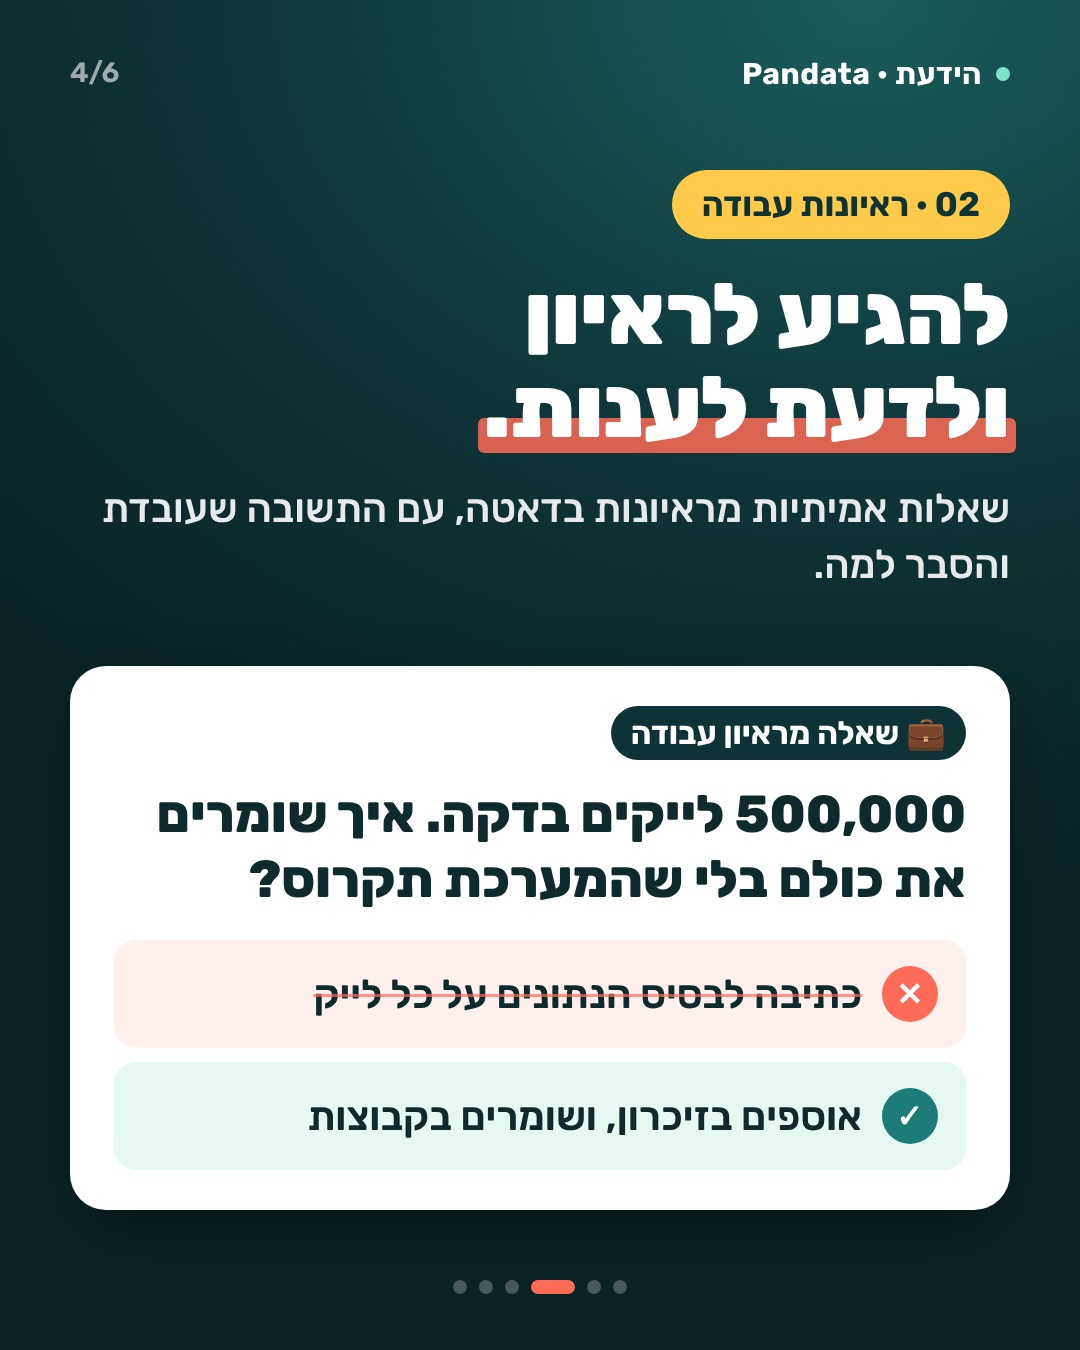
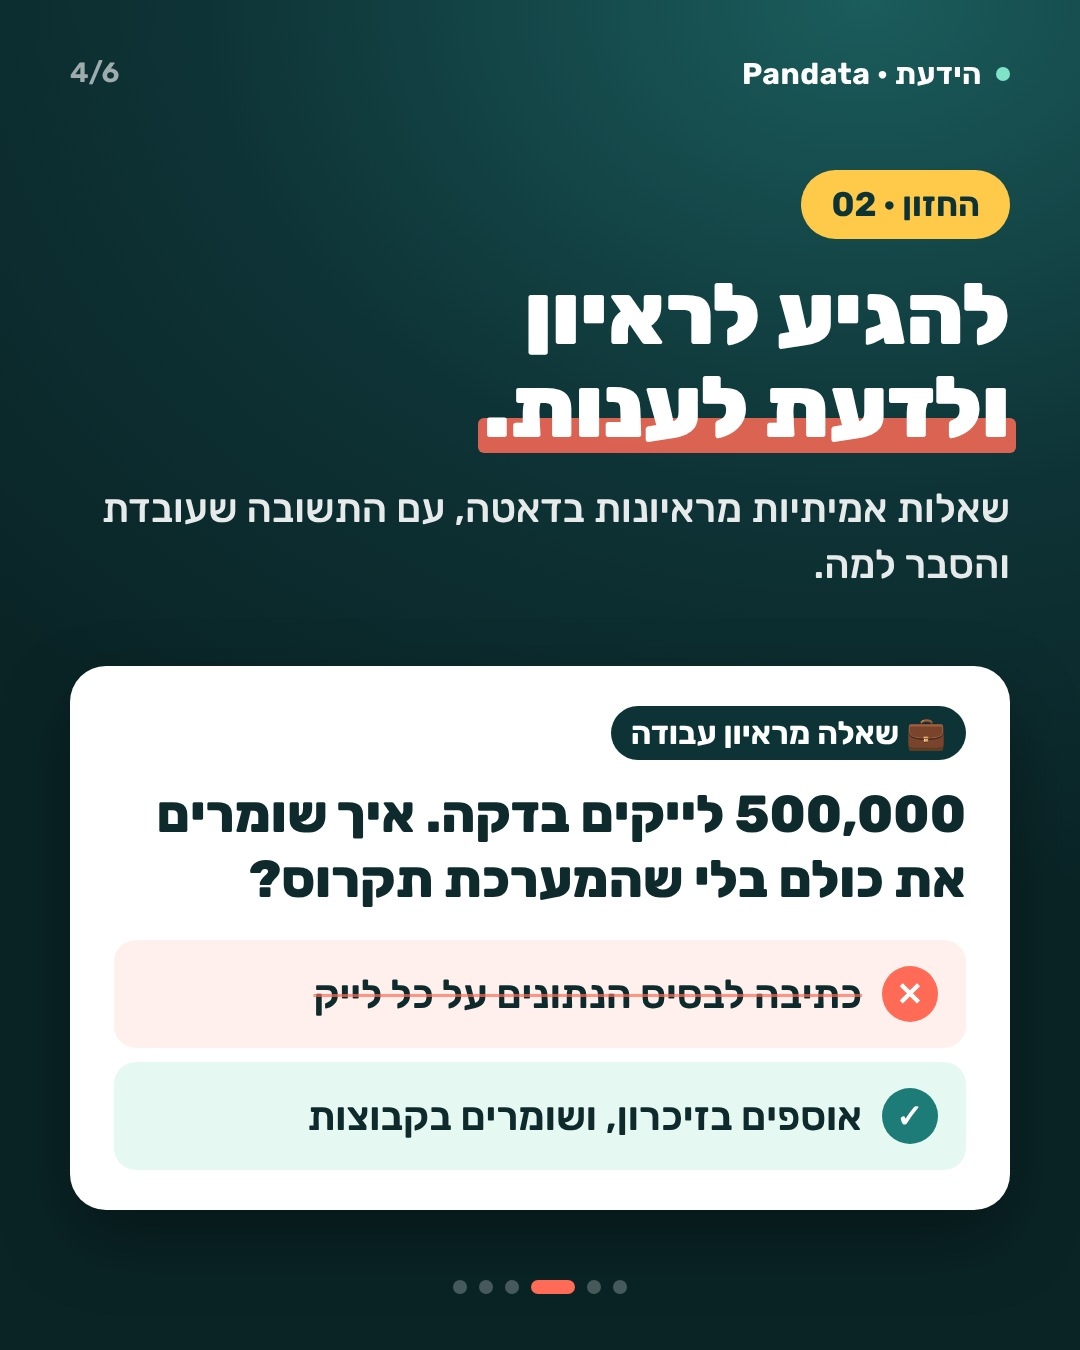
Vision carousel: new pillar wording, knowledge-hub tiles
Claude-Session: https://claude.ai/code/session_01HGsxkkLTRfJG6BnZMczhct

Changed region(s): [[0.6111, 0.1244, 0.9167, 0.1867]]

diff --git a/posts/vision/slides.html b/posts/vision/slides.html
@@ -67,6 +67,7 @@ h2{font-size:86px;line-height:1.08;font-weight:900}
 /* 5 */
 #s5 .pill{background:var(--teal);color:#fff;margin-bottom:30px}
 #s5 .sub{font-size:40px;line-height:1.4;font-weight:500;margin-top:26px;max-width:900px}
+#s5 .tiles{position:absolute;bottom:120px;left:50%;transform:translateX(-50%);display:grid;grid-template-columns:repeat(3,196px);gap:20px;direction:ltr}#s5 .tiles img{width:196px;height:196px;border-radius:44px;box-shadow:0 12px 28px rgba(15,42,44,.16);display:block}
 #s5 .hl{position:absolute;right:50px;left:50px;bottom:130px;display:grid;grid-template-columns:repeat(4,1fr);gap:34px 10px;justify-items:center}
 #s5 .b{display:flex;flex-direction:column;align-items:center;gap:14px}
 #s5 .ring{width:176px;height:176px;border-radius:50%;padding:7px;background:conic-gradient(from 200deg,var(--teal),var(--mint),var(--sun),var(--coral),var(--teal))}
@@ -107,10 +108,10 @@ h2{font-size:86px;line-height:1.08;font-weight:900}
 <div class="dots"><b></b><b class="on"></b><b></b><b></b><b></b><b></b></div></div>
 
 <div class="s cream" id="s3" style="background:#f3f7f2"><div class="brand"><i></i>הידעת · Pandata</div><div class="num">3/6</div>
-<div class="t"><div class="pill">01 · להנגיש</div>
-<h2>דאטה קל<br><mark>ומוחשי יותר</mark></h2>
+<div class="t"><div class="pill">החזון · 01</div>
+<h2 style="font-size:80px">להנגיש דאטה<br><mark>בצורה קלה ומוחשית</mark></h2>
 <div class="rows">
-<div class="row"><div class="ic">🗣</div>בעברית פשוטה, בלי ז'רגון</div>
+<div class="row"><div class="ic">🗣</div>בעברית פשוטה</div>
 <div class="row"><div class="ic">👀</div>רואים את התהליך, לא רק שומעים</div>
 <div class="row"><div class="ic">🛒</div>דוגמאות מהחיים וקוד אמיתי</div>
 </div></div>
@@ -120,7 +121,7 @@ h2{font-size:86px;line-height:1.08;font-weight:900}
 <div class="dots" style="color:var(--ink)"><b></b><b></b><b class="on"></b><b></b><b></b><b></b></div></div>
 
 <div class="s dark" id="s4"><div class="brand"><i></i>הידעת · Pandata</div><div class="num">4/6</div>
-<div class="t"><div class="pill">02 · ראיונות עבודה</div>
+<div class="t"><div class="pill">החזון · 02</div>
 <h2>להגיע לראיון<br><mark>ולדעת לענות.</mark></h2>
 <div class="sub">שאלות אמיתיות מראיונות בדאטה, עם התשובה שעובדת והסבר למה.</div></div>
 <div class="card"><span class="tag">💼 שאלה מראיון עבודה</span>
@@ -130,24 +131,15 @@ h2{font-size:86px;line-height:1.08;font-weight:900}
 <div class="dots"><b></b><b></b><b></b><b class="on"></b><b></b><b></b></div></div>
 
 <div class="s cream" id="s5"><div class="brand"><i></i>הידעת · Pandata</div><div class="num">5/6</div>
-<div class="t"><div class="pill">03 · מרכז ידע</div>
-<h2>מקום אחד<br><mark>שחוזרים אליו</mark></h2>
-<div class="sub">כל טיפ נשמר בהיילייטס, מסודר לפי נושא. צריכים משהו? הוא כבר מחכה לכם בפרופיל.</div></div>
-<div class="hl">
-<div class="b"><div class="ring"><div>🗄</div></div><span>SQL</span></div>
-<div class="b"><div class="ring"><div>🐍</div></div><span>Python</span></div>
-<div class="b"><div class="ring"><div>📊</div></div><span>Excel</span></div>
-<div class="b"><div class="ring"><div>🛠</div></div><span>Tools</span></div>
-<div class="b"><div class="ring"><div>💽</div></div><span>Database</span></div>
-<div class="b"><div class="ring"><div>⚙</div></div><span>Data Engineer</span></div>
-<div class="b"><div class="ring"><div>🔎</div></div><span>Data Analyst</span></div>
-<div class="b"><div class="ring"><div>💼</div></div><span>ראיונות</span></div>
-</div>
+<div class="t"><div class="pill">החזון · 03</div>
+<h2>מרכז ידע<br><mark>בעולם הדאטה</mark></h2>
+<div class="sub">כל הטיפים נשמרים בהיילייטס, מסודרים לפי נושא.</div></div>
+<div class="tiles"><img src="tile1.png"><img src="tile2.png"><img src="tile3.png"><img src="tile4.png"><img src="tile5.png"><img src="tile6.png"><img src="tile7.png"><img src="tile8.png"><img src="tile9.png"></div>
 <div class="dots" style="color:var(--ink)"><b></b><b></b><b></b><b></b><b class="on"></b><b></b></div></div>
 
 <div class="s cream" id="s6" style="background:#fceac3"><div class="brand"><i></i>הידעת · Pandata</div><div class="num">6/6</div>
 <div class="t"><h2>זה החזון.<br><mark>ואתם חלק ממנו.</mark></h2>
-<div class="recap"><div><i>✓</i>להנגיש דאטה, קל ומוחשי</div><div><i>✓</i>לעזור לכם בראיונות עבודה</div><div><i>✓</i>מרכז ידע שחוזרים אליו</div></div>
+<div class="recap"><div><i>✓</i>להנגיש דאטה בצורה קלה ומוחשית</div><div><i>✓</i>לעזור לכם בראיונות עבודה</div><div><i>✓</i>מרכז ידע בעולם הדאטה</div></div>
 <div class="bubble">מה הכי מבלבל אתכם בדאטה? 👇</div></div>
 <div class="laugh"></div>
 <div class="cta"><div class="btn">עקבו ←</div><br><div class="btn2">📌 שמרו את הפוסט</div><span class="h">@haya___data</span></div>
